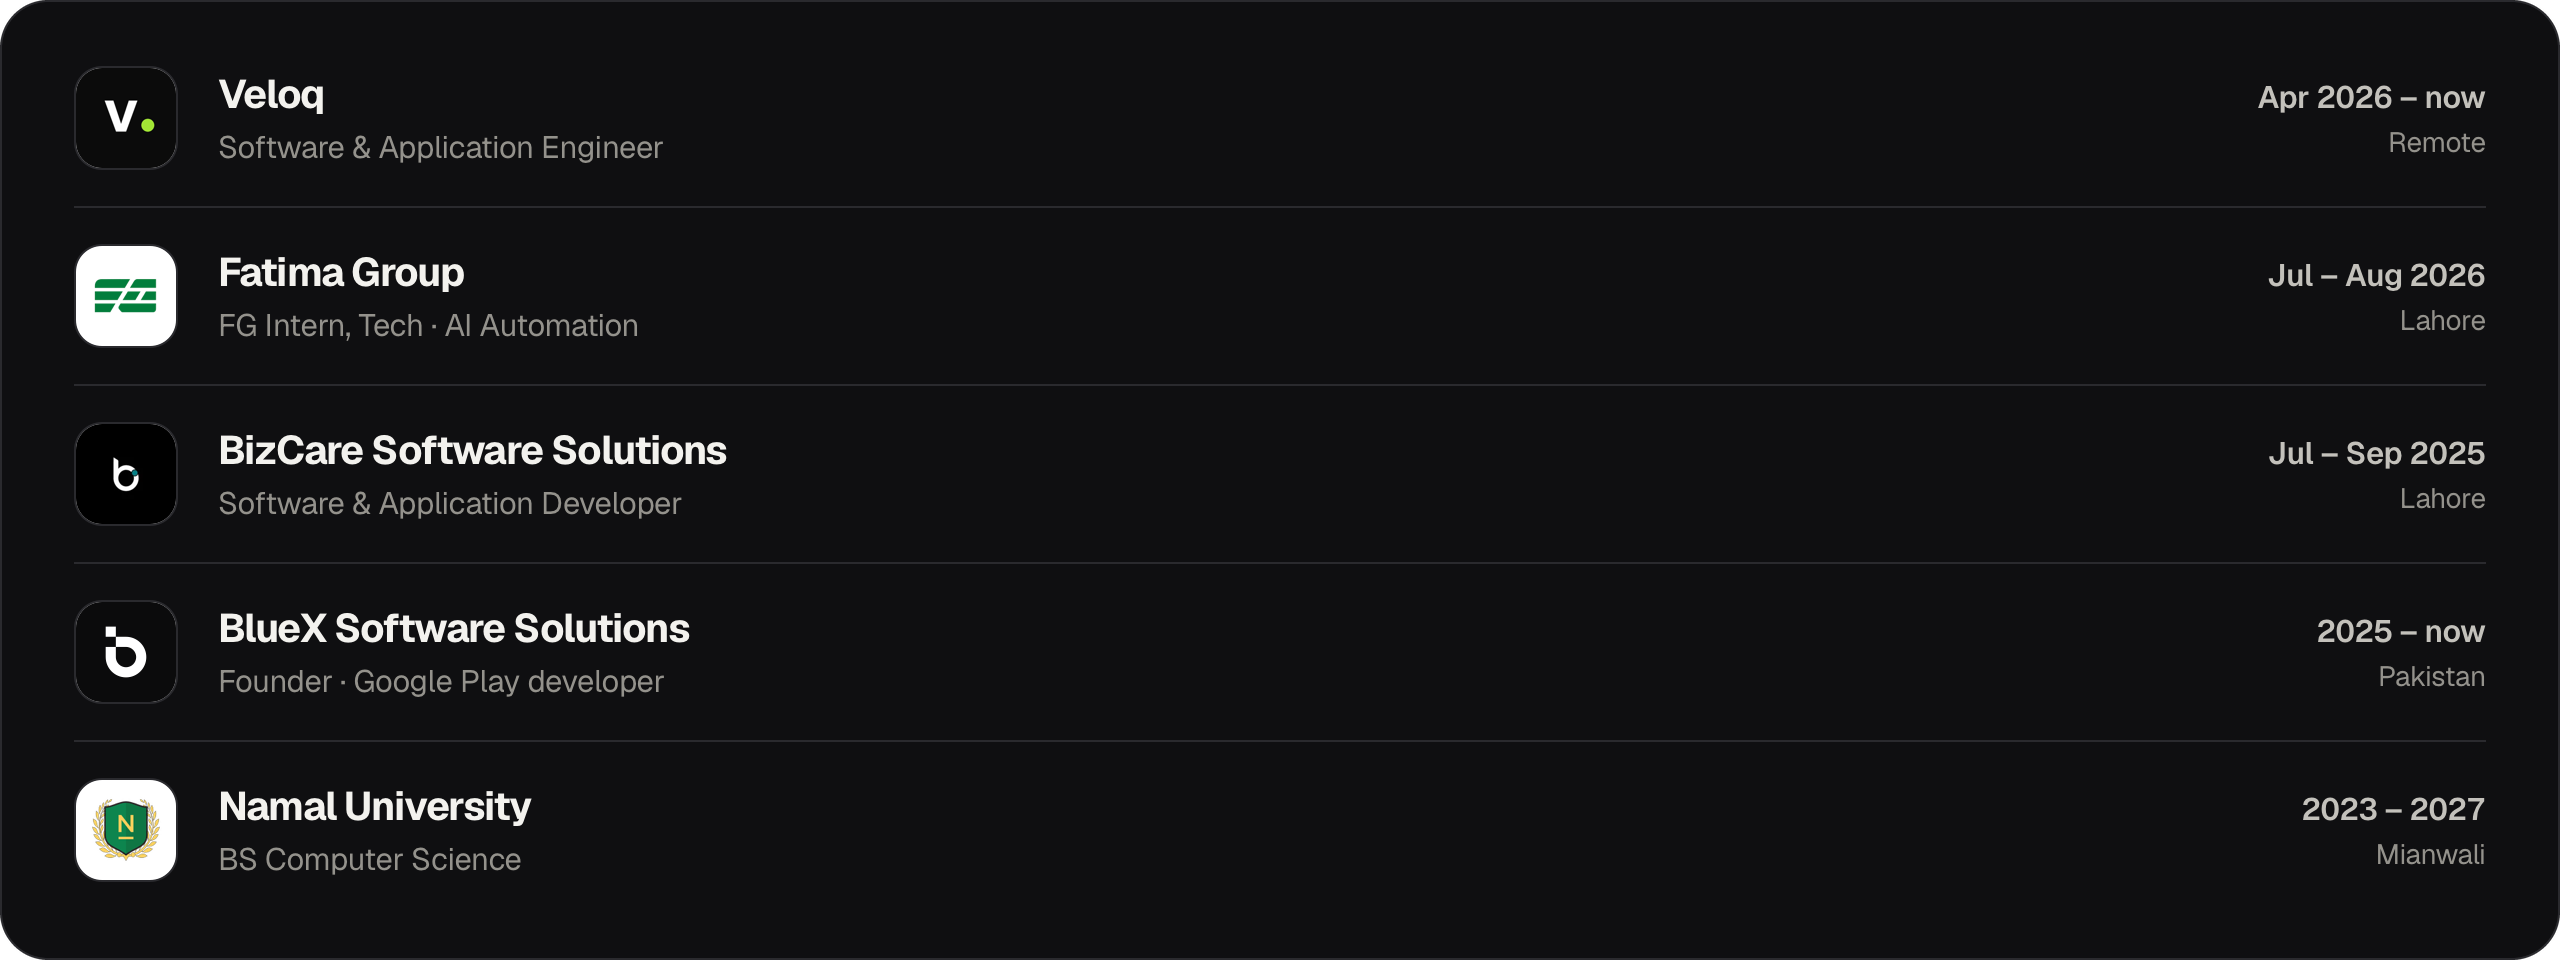
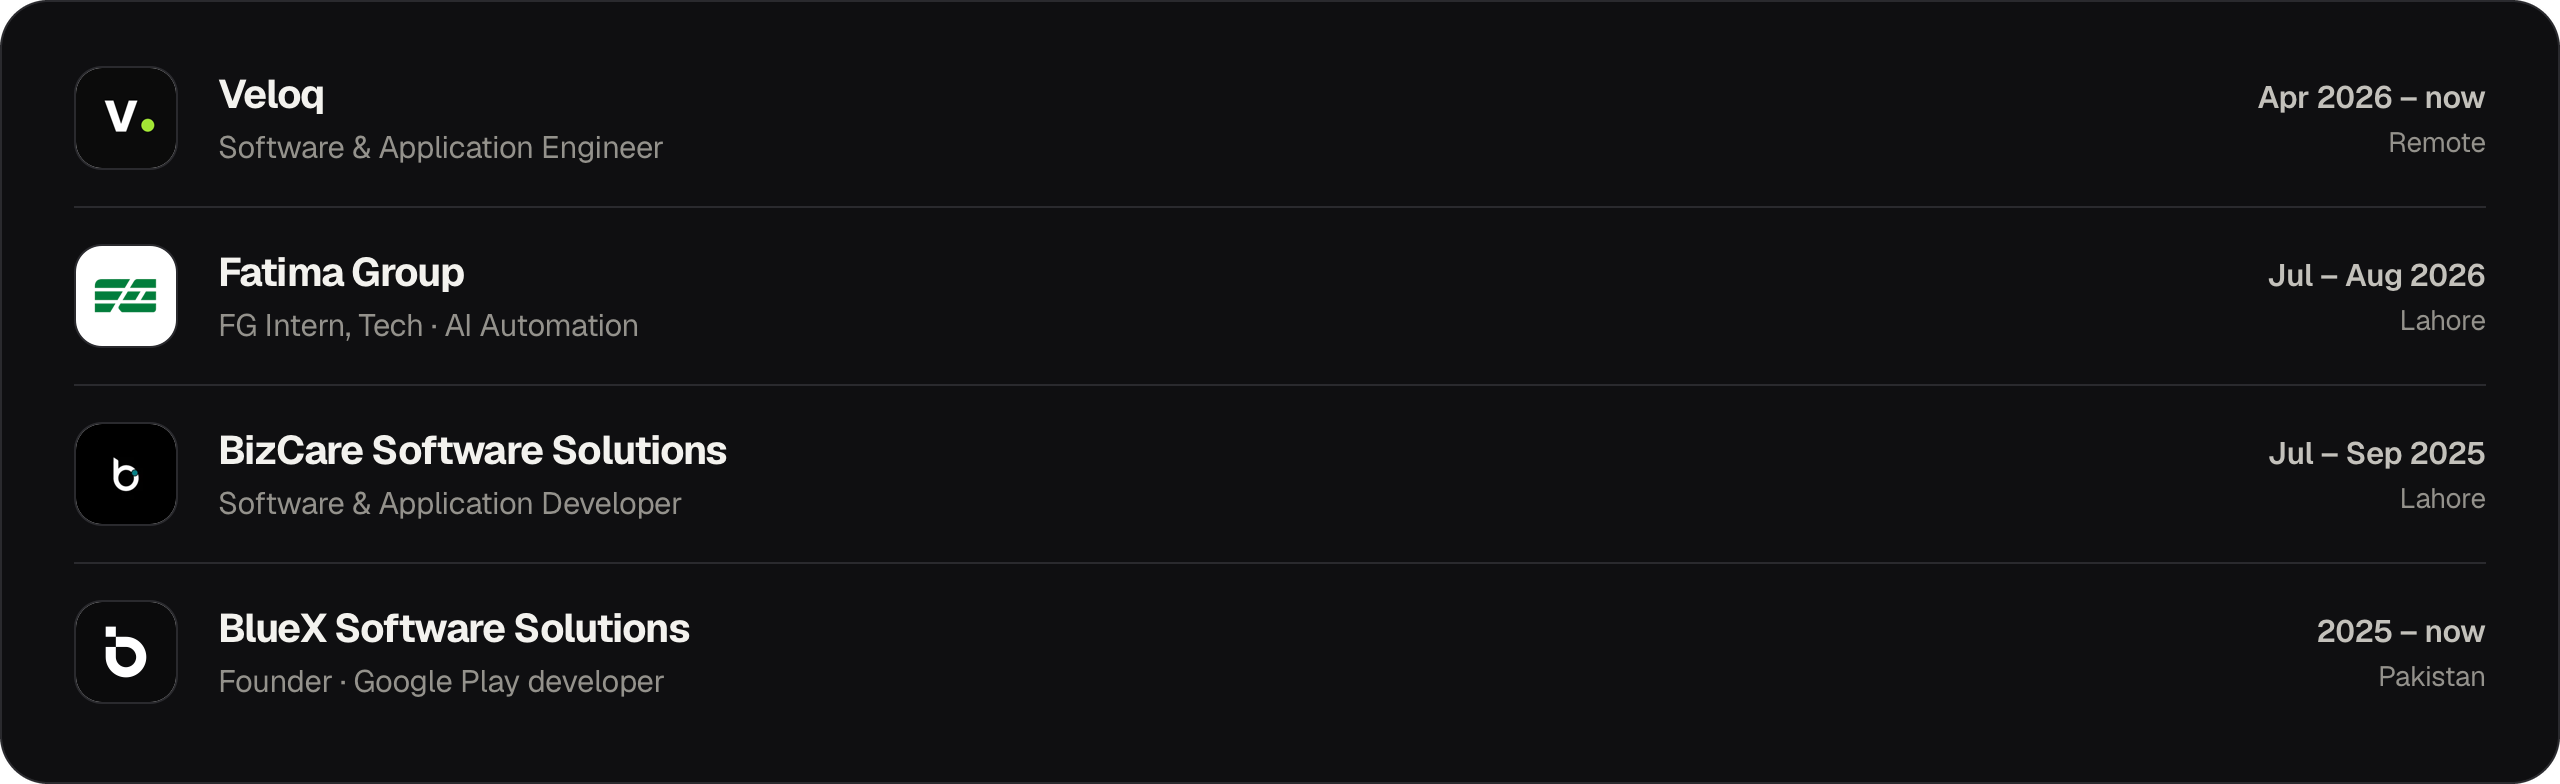
Education section; link buttons

diff --git a/README.md b/README.md
@@ -6,11 +6,11 @@
 </a>
 
 <p align="center">
-  <a href="https://usmanghanics.vercel.app/"><b>Portfolio</b></a>&nbsp;&nbsp;·&nbsp;&nbsp;
-  <a href="https://www.linkedin.com/in/usmanghanics">LinkedIn</a>&nbsp;&nbsp;·&nbsp;&nbsp;
-  <a href="https://x.com/usmanghanics">X</a>&nbsp;&nbsp;·&nbsp;&nbsp;
-  <a href="https://play.google.com/store/apps/developer?id=BlueX+Software+Solutions">Google Play</a>&nbsp;&nbsp;·&nbsp;&nbsp;
-  <a href="mailto:usmanghanics.dev@gmail.com">usmanghanics.dev@gmail.com</a>
+<a href="https://usmanghanics.vercel.app/"><picture><source media="(prefers-color-scheme: dark)" srcset="assets/link-portfolio-dark.png"><img src="assets/link-portfolio-light.png" height="40" alt="Portfolio"></picture></a>&nbsp;
+<a href="https://www.linkedin.com/in/usmanghanics"><picture><source media="(prefers-color-scheme: dark)" srcset="assets/link-linkedin-dark.png"><img src="assets/link-linkedin-light.png" height="40" alt="LinkedIn"></picture></a>&nbsp;
+<a href="https://x.com/usmanghanics"><picture><source media="(prefers-color-scheme: dark)" srcset="assets/link-x-dark.png"><img src="assets/link-x-light.png" height="40" alt="X"></picture></a>&nbsp;
+<a href="https://play.google.com/store/apps/developer?id=BlueX+Software+Solutions"><picture><source media="(prefers-color-scheme: dark)" srcset="assets/link-play-dark.png"><img src="assets/link-play-light.png" height="40" alt="Google Play"></picture></a>&nbsp;
+<a href="mailto:usmanghanics.dev@gmail.com"><picture><source media="(prefers-color-scheme: dark)" srcset="assets/link-email-dark.png"><img src="assets/link-email-light.png" height="40" alt="Email usmanghanics.dev@gmail.com"></picture></a>
 </p>
 
 I'm a software engineer in Lahore. I build mobile apps that are live on Google Play and the App Store, and AI platforms and web products for companies. I work at [Veloq](https://veloq.tech/), an AI software house, and study computer science at Namal University.
@@ -39,7 +39,11 @@ I'm a software engineer in Lahore. I build mobile apps that are live on Google P
 
 ### Where I've worked
 
-<a href="https://usmanghanics.vercel.app/#experience"><picture><source media="(prefers-color-scheme: dark)" srcset="assets/work-dark.png"><img src="assets/work-light.png" width="100%" alt="Veloq, Software and Application Engineer, Apr 2026 to now. Fatima Group, FG Intern Tech, Jul to Aug 2026. BizCare Software Solutions, Software and Application Developer, Jul to Sep 2025. BlueX Software Solutions, founder, 2025 to now. Namal University, BS Computer Science, 2023 to 2027."></picture></a>
+<a href="https://usmanghanics.vercel.app/#experience"><picture><source media="(prefers-color-scheme: dark)" srcset="assets/work-dark.png"><img src="assets/work-light.png" width="100%" alt="Veloq, Software and Application Engineer, Apr 2026 to now. Fatima Group, FG Intern Tech, Jul to Aug 2026. BizCare Software Solutions, Software and Application Developer, Jul to Sep 2025. BlueX Software Solutions, founder, 2025 to now."></picture></a>
+
+### Education
+
+<a href="https://usmanghanics.vercel.app/about"><picture><source media="(prefers-color-scheme: dark)" srcset="assets/education-dark.png"><img src="assets/education-light.png" width="100%" alt="Namal University, BS Computer Science, 2023 to 2027. Punjab Daanish School, F.Sc Pre-Engineering, Grade A+, 2021 to 2023."></picture></a>
 
 ### Awards and rankings
 
